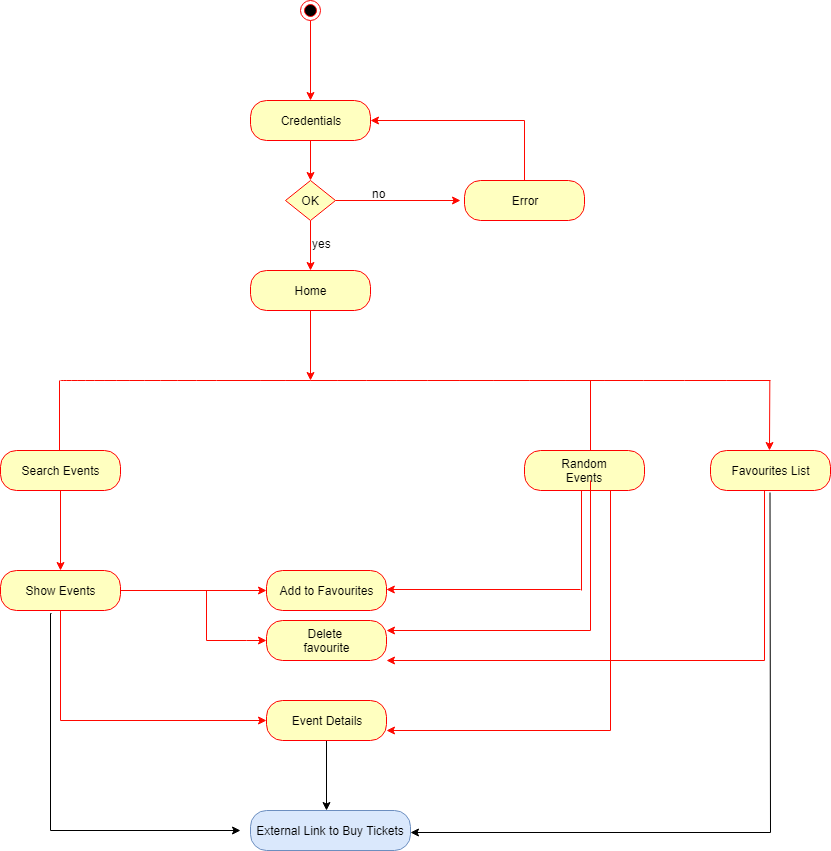
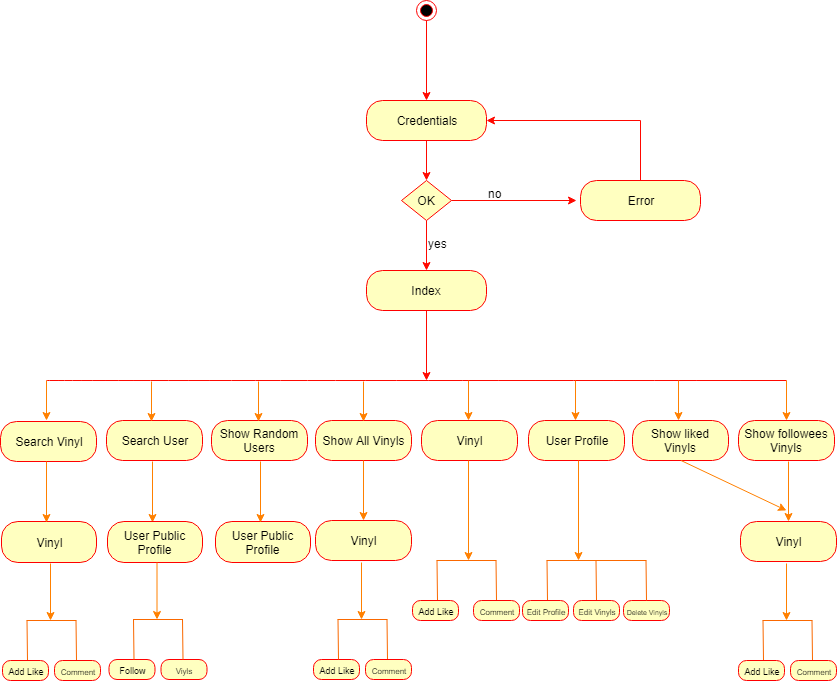
working on docs

diff --git a/staff/gianluca-bragaglia/vinyls/vinyls-app/src/App.js b/staff/gianluca-bragaglia/vinyls/vinyls-app/src/App.js
@@ -48,7 +48,6 @@ class App extends Component {
         try {
             logic.onBeforeUnload()
                 .then(() => {
-                    console.log('before')
                     
                     this.setState({ error: null })
                 })

diff --git a/staff/gianluca-bragaglia/vinyls/docs/README.md b/staff/gianluca-bragaglia/vinyls/docs/README.md
@@ -16,12 +16,12 @@ The user can have a section where they can edit their personal data, profile pho
 
 ## Activity Diagram
 
-The application has two main activities: search for an event and save an event in a favourites list. You can click on an event for more information. With regard to the favourites list, you can also delete the event any time.
+The application has one main activity: publish your vinyls, and other cativities like a search users, search vinyls, follow users, likes vinyls, comment vinyls.
 
 ![Use cases](images/activity-diagram.png)
 
 ## Block diagram
-The front end of the application was built using React. The back end is connected to 2 APIs: the first one to manage the users and store the favourite events of each user, and the second one to retrieve the information from all the available events that are shown to the user.
+The front end of the application was built using React. The back end is connected to an API that is connected to data module DATA for make change on the Database(CRUD)
 
 ![Block Diagram](images/block-diagram.png)
 
@@ -51,4 +51,11 @@ The most significant tasks of the application are those that use the APIs. Skyla
 * React
 * React Router
 * MD Bootstrap React
-* APIs
+* Node js
+* Express
+* Mongoose
+* MongoDB
+* TDD Mocha - Chai
+
+
+
